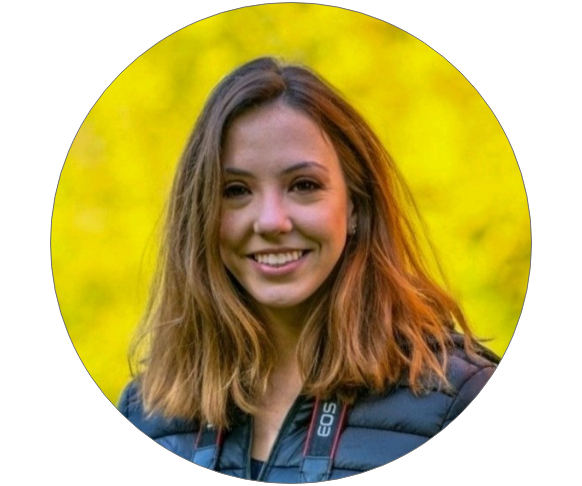
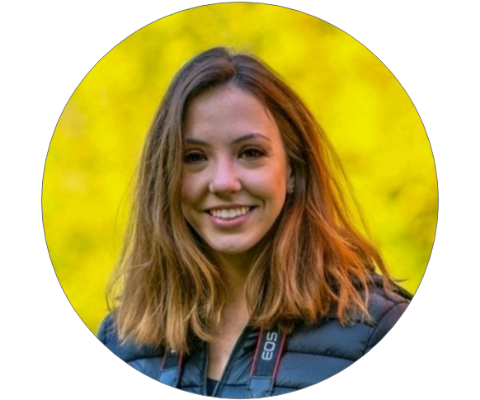
feat: Visual chronology for experience and education

diff --git a/src/app/screens/about/about.component.html b/src/app/screens/about/about.component.html
@@ -12,40 +12,32 @@
   <h1 role="heading" class="display-6 text-primary fw-bold text-center py-md-5 py-3">About Me</h1>
 </div>
 <section class="my-md-5 my-3 pb-md-5 pb-3">
-  <div class="container-md text-center">
-    <div class="row">
-      <div class="col">
+  <div class="container-fluid text-center">
+    <div class="row pb-md-4 pb-1">
+      <div class="col-md col-sm">
         <picture>
-          <source srcset="/assets/img/my-picture_360.png,
-                          /assets/img/my-picture_480.png 2x,
-                          /assets/img/my-picture_720.png 3x" media="(max-width: 460px)">
-          <source srcset="/assets/img/my-picture_480.png,
-                          /assets/img/my-picture_960.png 2x,
-                          /assets/img/my-picture_1440.png 3x" media="(max-width: 780px)">
+          <source srcset="/assets/img/my-picture_280.png,
+                          /assets/img/my-picture_360.png 3x" media="(max-width: 480px)">
+          <source srcset="/assets/img/my-picture_280.png,
+                          /assets/img/my-picture_360.png 2x,
+                          /assets/img/my-picture_480.png 3x" media="(max-width: 1200px)">
           <img src="/assets/img/my-picture.png" alt="Vanessa Isabela Denny's picture">
         </picture>
       </div>
-      <div class="col-8">
+      <div class="col-md-7">
         <h2 role="heading" class="text-secondary fw-semibold">Background</h2>
         <p class="fs-4">What drives my work ethic is building products that are user centered.</p>
         <br>
         <p class="fs-4">Graduated in Business Management, Systems Analysis and Development, and currently studying
-          Interactive
-          Media Design
-          at Algonquin College.</p>
+          Interactive Media Design at Algonquin College.</p>
         <br>
         <p class="fs-4">I started working in the technology area assisting internal users in solving IT problems and
-          applying
-          training,
-          where I proactively started writing and updating internal pages with IT guidelines to contribute to the
-          support
-          queue and make users more autonomous.</p>
+          applying training, where I proactively started writing and updating internal pages with IT guidelines to
+          contribute to the support queue and make users more autonomous.</p>
         <br>
         <p class="fs-4">After the extra time studying programming, I was able to work on building applications and
-          mobile
-          features with
-          Angular-Typescript by interpreting design guidelines in Figma and accessibility standards according to WCAG
-          2.0.</p>
+          mobile features with Angular-Typescript by interpreting design guidelines in Figma and accessibility
+          standards according to WCAG 2.0.</p>
         <br>
         <p class="fs-4">My interaction with design experts made me curious to expand my knowledge in research, ideation,
           wireframing and
@@ -54,14 +46,89 @@
     </div>
   </div>
 </section>
-<section class="bg-light">
+<section class="bg-light py-md-5 py-3 pb-md-5 pb-3 text-center">
   <h2 role="heading" class="text-secondary fw-semibold">Education</h2>
-  <button type="button" class="btn btn-primary" (click)="changePage('/portfolio')" aria-label="Go to portfolio page">My
-    portfolio
-    ></button>
+  <div class="divisor-visual d-inline-flex py-md-5 py-3 align-items-end">
+    <div>
+      <div>
+        <p>Associate
+          <br>Business Administration
+        </p>
+        <p>Faculdade de Tecnologia de Indaiatuba
+          <br>SP, Brazil
+        </p>
+      </div>
+      <img src="/assets/img/divisor.png" alt="Vanessa Isabela Denny's picture">
+      <p class="pt-2">2011 - 2015</p>
+    </div>
+    <div>
+      <p>Associate
+        <br>Systems Analysis and Development
+      </p>
+      <p>Faculdade de Tecnologia de Indaiatuba
+        <br>SP, Brazil
+      </p>
+      <img src="/assets/img/divisor.png" alt="Vanessa Isabela Denny's picture">
+      <p class="pt-2">2017 - 2022</p>
+    </div>
+    <div>
+      <p>Diploma
+        <br>Interactive Media Design
+      </p>
+      <p>Algonquin College - School of Media and Design
+        <br>Ottawa, Canada
+      </p>
+      <img src="/assets/img/divisor.png" alt="Vanessa Isabela Denny's picture">
+      <p class="pt-2">2022 - 2024</p>
+    </div>
+  </div>
+  <div>
+    <button type="button" class="btn btn-primary" (click)="changePage('/portfolio')"
+      aria-label="Go to portfolio page">My
+      portfolio
+      ></button>
+  </div>
 </section>
-<section class="bg-white">
+<section class="bg-white py-md-5 py-3 pb-md-5 pb-3 text-center">
   <h2 role="heading" class="text-secondary fw-semibold">Experience</h2>
-  <button type="button" class="btn btn-primary" (click)="gotoUrl()" aria-label="Download resume">Download resume
-    ></button>
+  <div class="divisor-visual d-inline-flex py-md-5 py-3 align-items-end">
+    <div>
+      <p>Mathematics and Calculus Instructor</p>
+      <p>Faculdade de Tecnologia de Indaiatuba
+        <br>SP, Brazil
+      </p>
+      <img src="/assets/img/divisor.png" alt="Vanessa Isabela Denny's picture">
+      <p class="pt-2">04/2018 - 07/2018</p>
+    </div>
+    <div>
+      <p>Information Technology
+        <br>Support Analyst
+      </p>
+      <p>Information Technology
+        <br>Intern
+      </p>
+      <p>Robert Bosch Ltda.
+        <br>SP, Brazil
+      </p>
+      <img src="/assets/img/divisor.png" alt="Vanessa Isabela Denny's picture">
+      <p class="pt-2">07/2018 - 08/2020</p>
+    </div>
+    <div>
+      <p>Application-Frontend
+        <br>Developer
+      </p>
+      <p>Software Development
+        <br>Intern
+      </p>
+      <p>IBM
+        <br>SP, Brazil
+      </p>
+      <img src="/assets/img/divisor.png" alt="Vanessa Isabela Denny's picture">
+      <p class="pt-2">08/2020 - 08/2022</p>
+    </div>
+  </div>
+  <div>
+    <button type="button" class="btn btn-primary" (click)="gotoUrl()" aria-label="Download resume">Download resume
+      ></button>
+  </div>
 </section>

diff --git a/src/app/screens/home/home.component.html b/src/app/screens/home/home.component.html
@@ -36,7 +36,7 @@
   </div>
 </section>
 <section class="bg-white py-md-5 py-4">
-  <div class="container-fluid text-center col-md-8">
+  <div class="container-fluid text-center">
     <div class="row pb-md-4 pb-1">
       <div class="col-md col-sm">
         <h2 role="heading" class="text-secondary fw-semibold">UX UI Design</h2>

diff --git a/src/app/screens/about/about.component.css b/src/app/screens/about/about.component.css
@@ -1,0 +1,3 @@
+.divisor-visual div {
+  max-width: 240px;
+}
